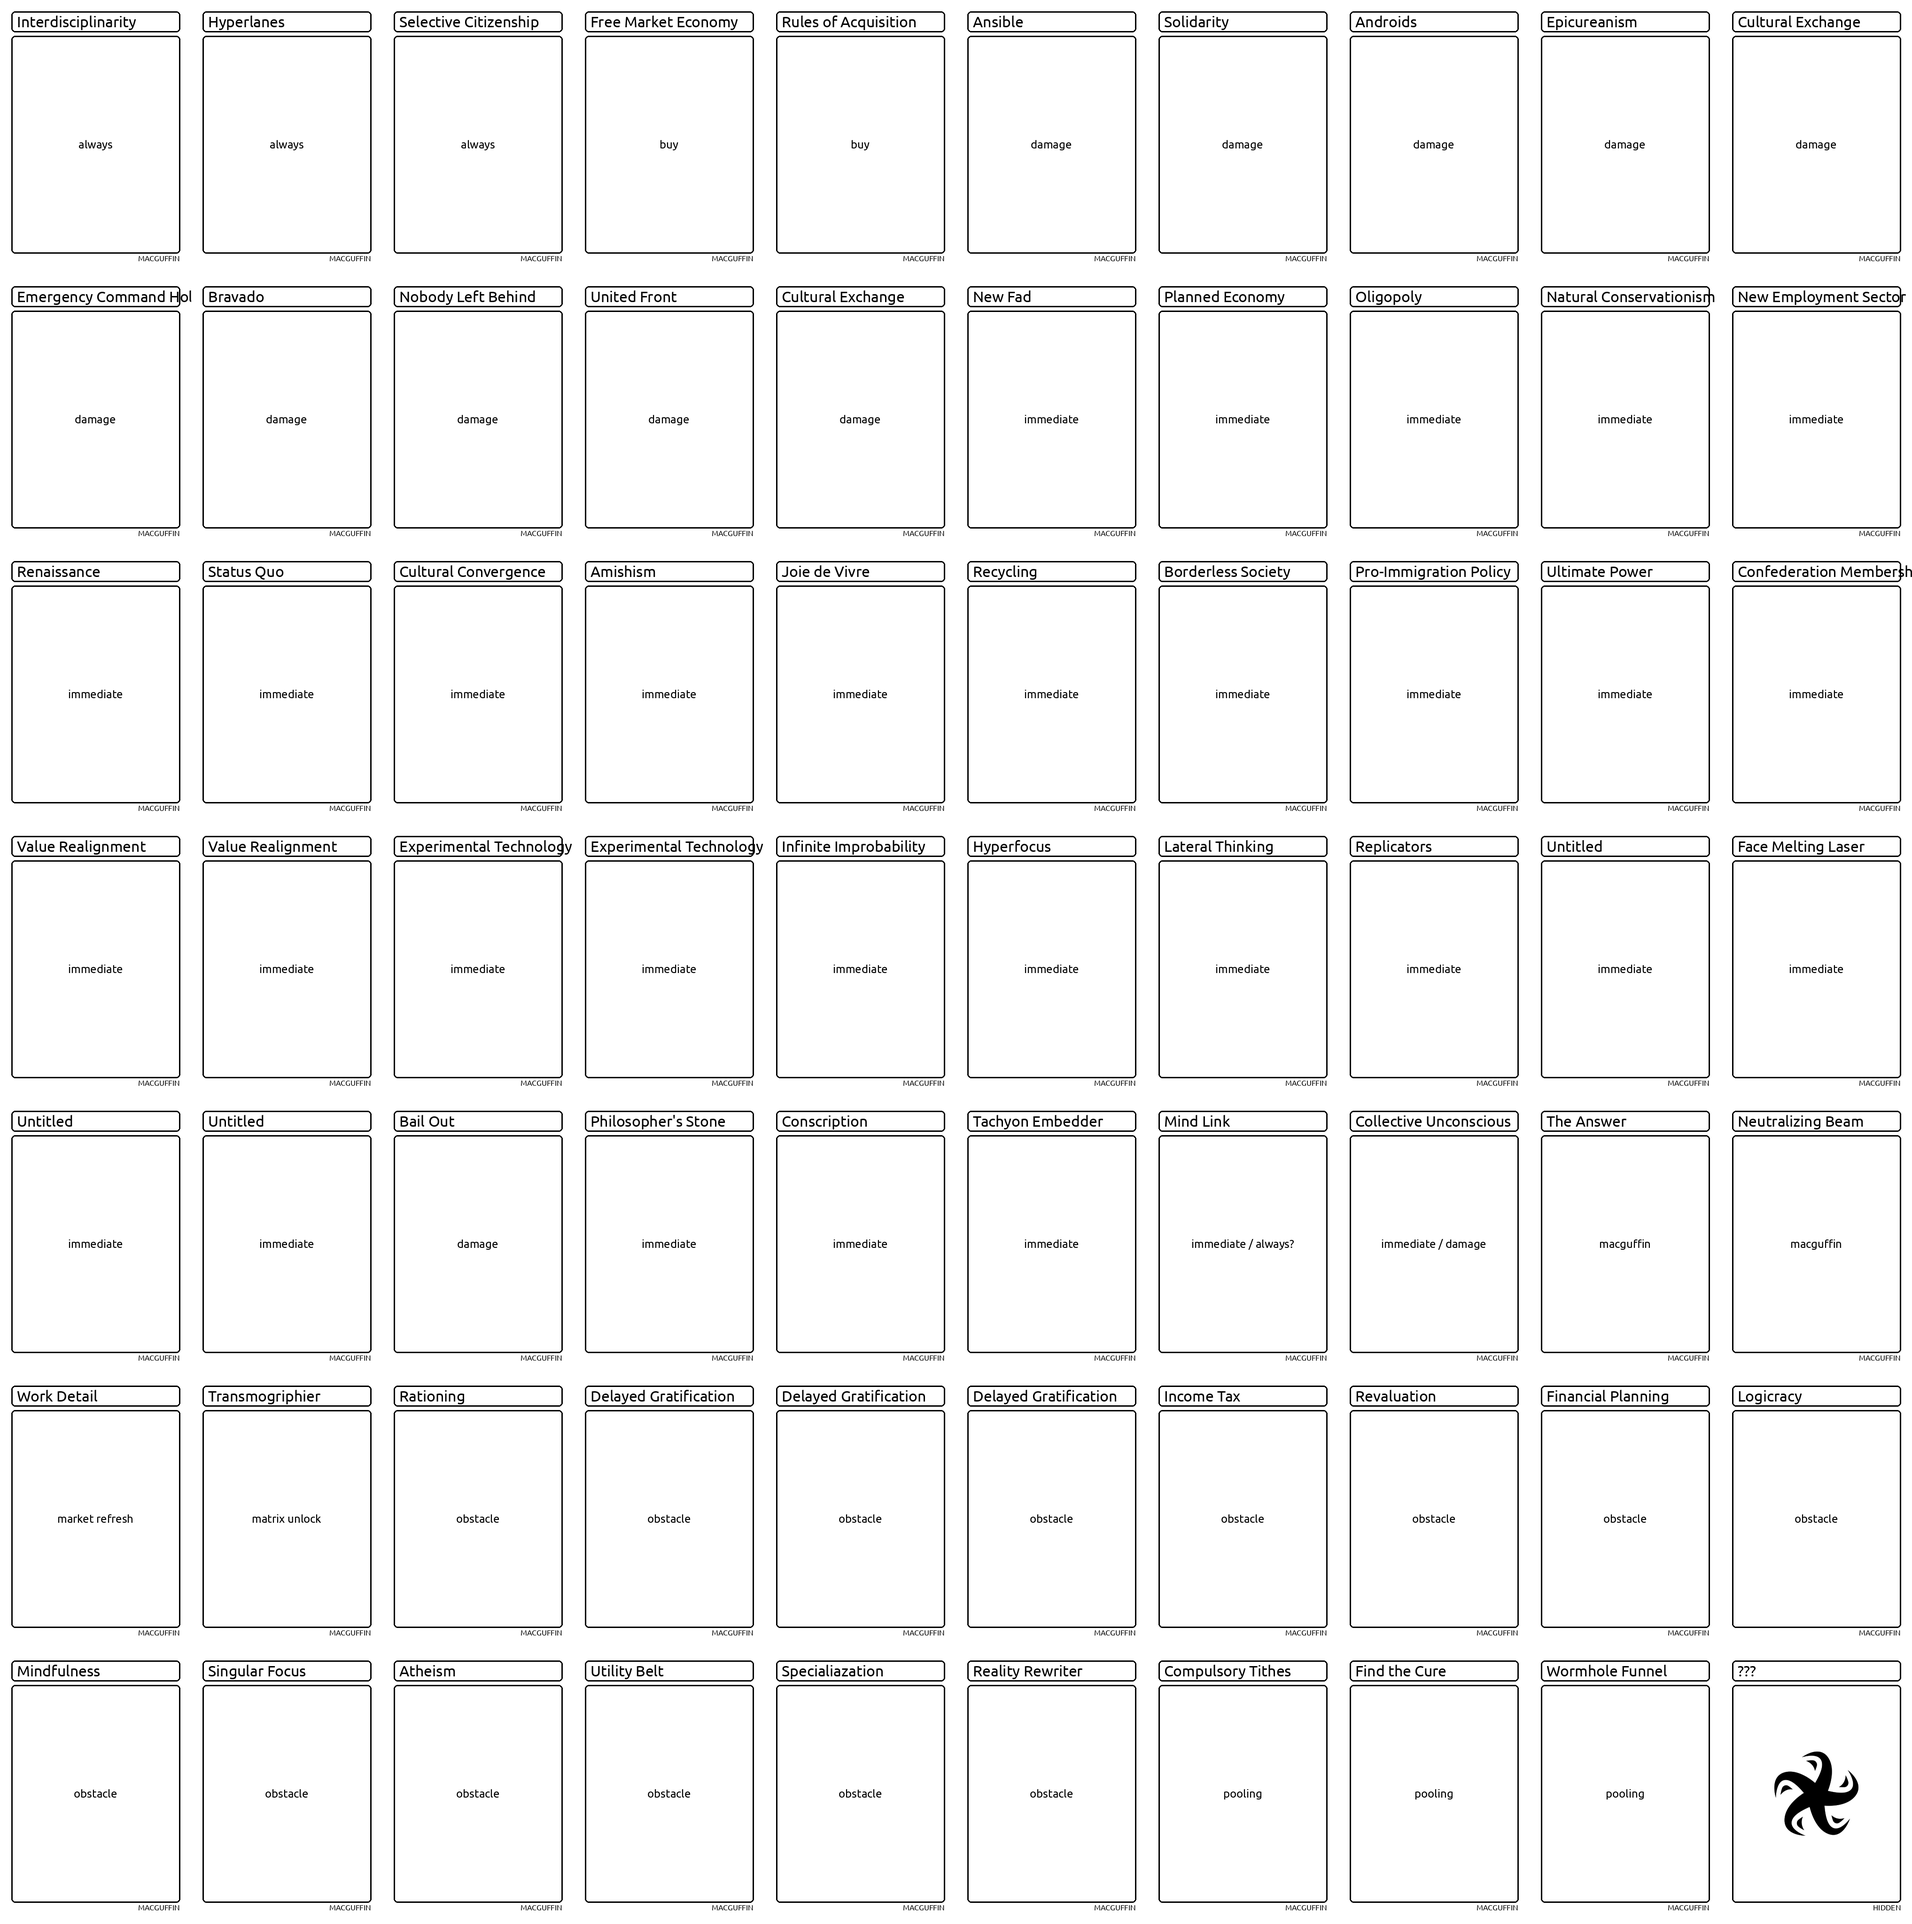
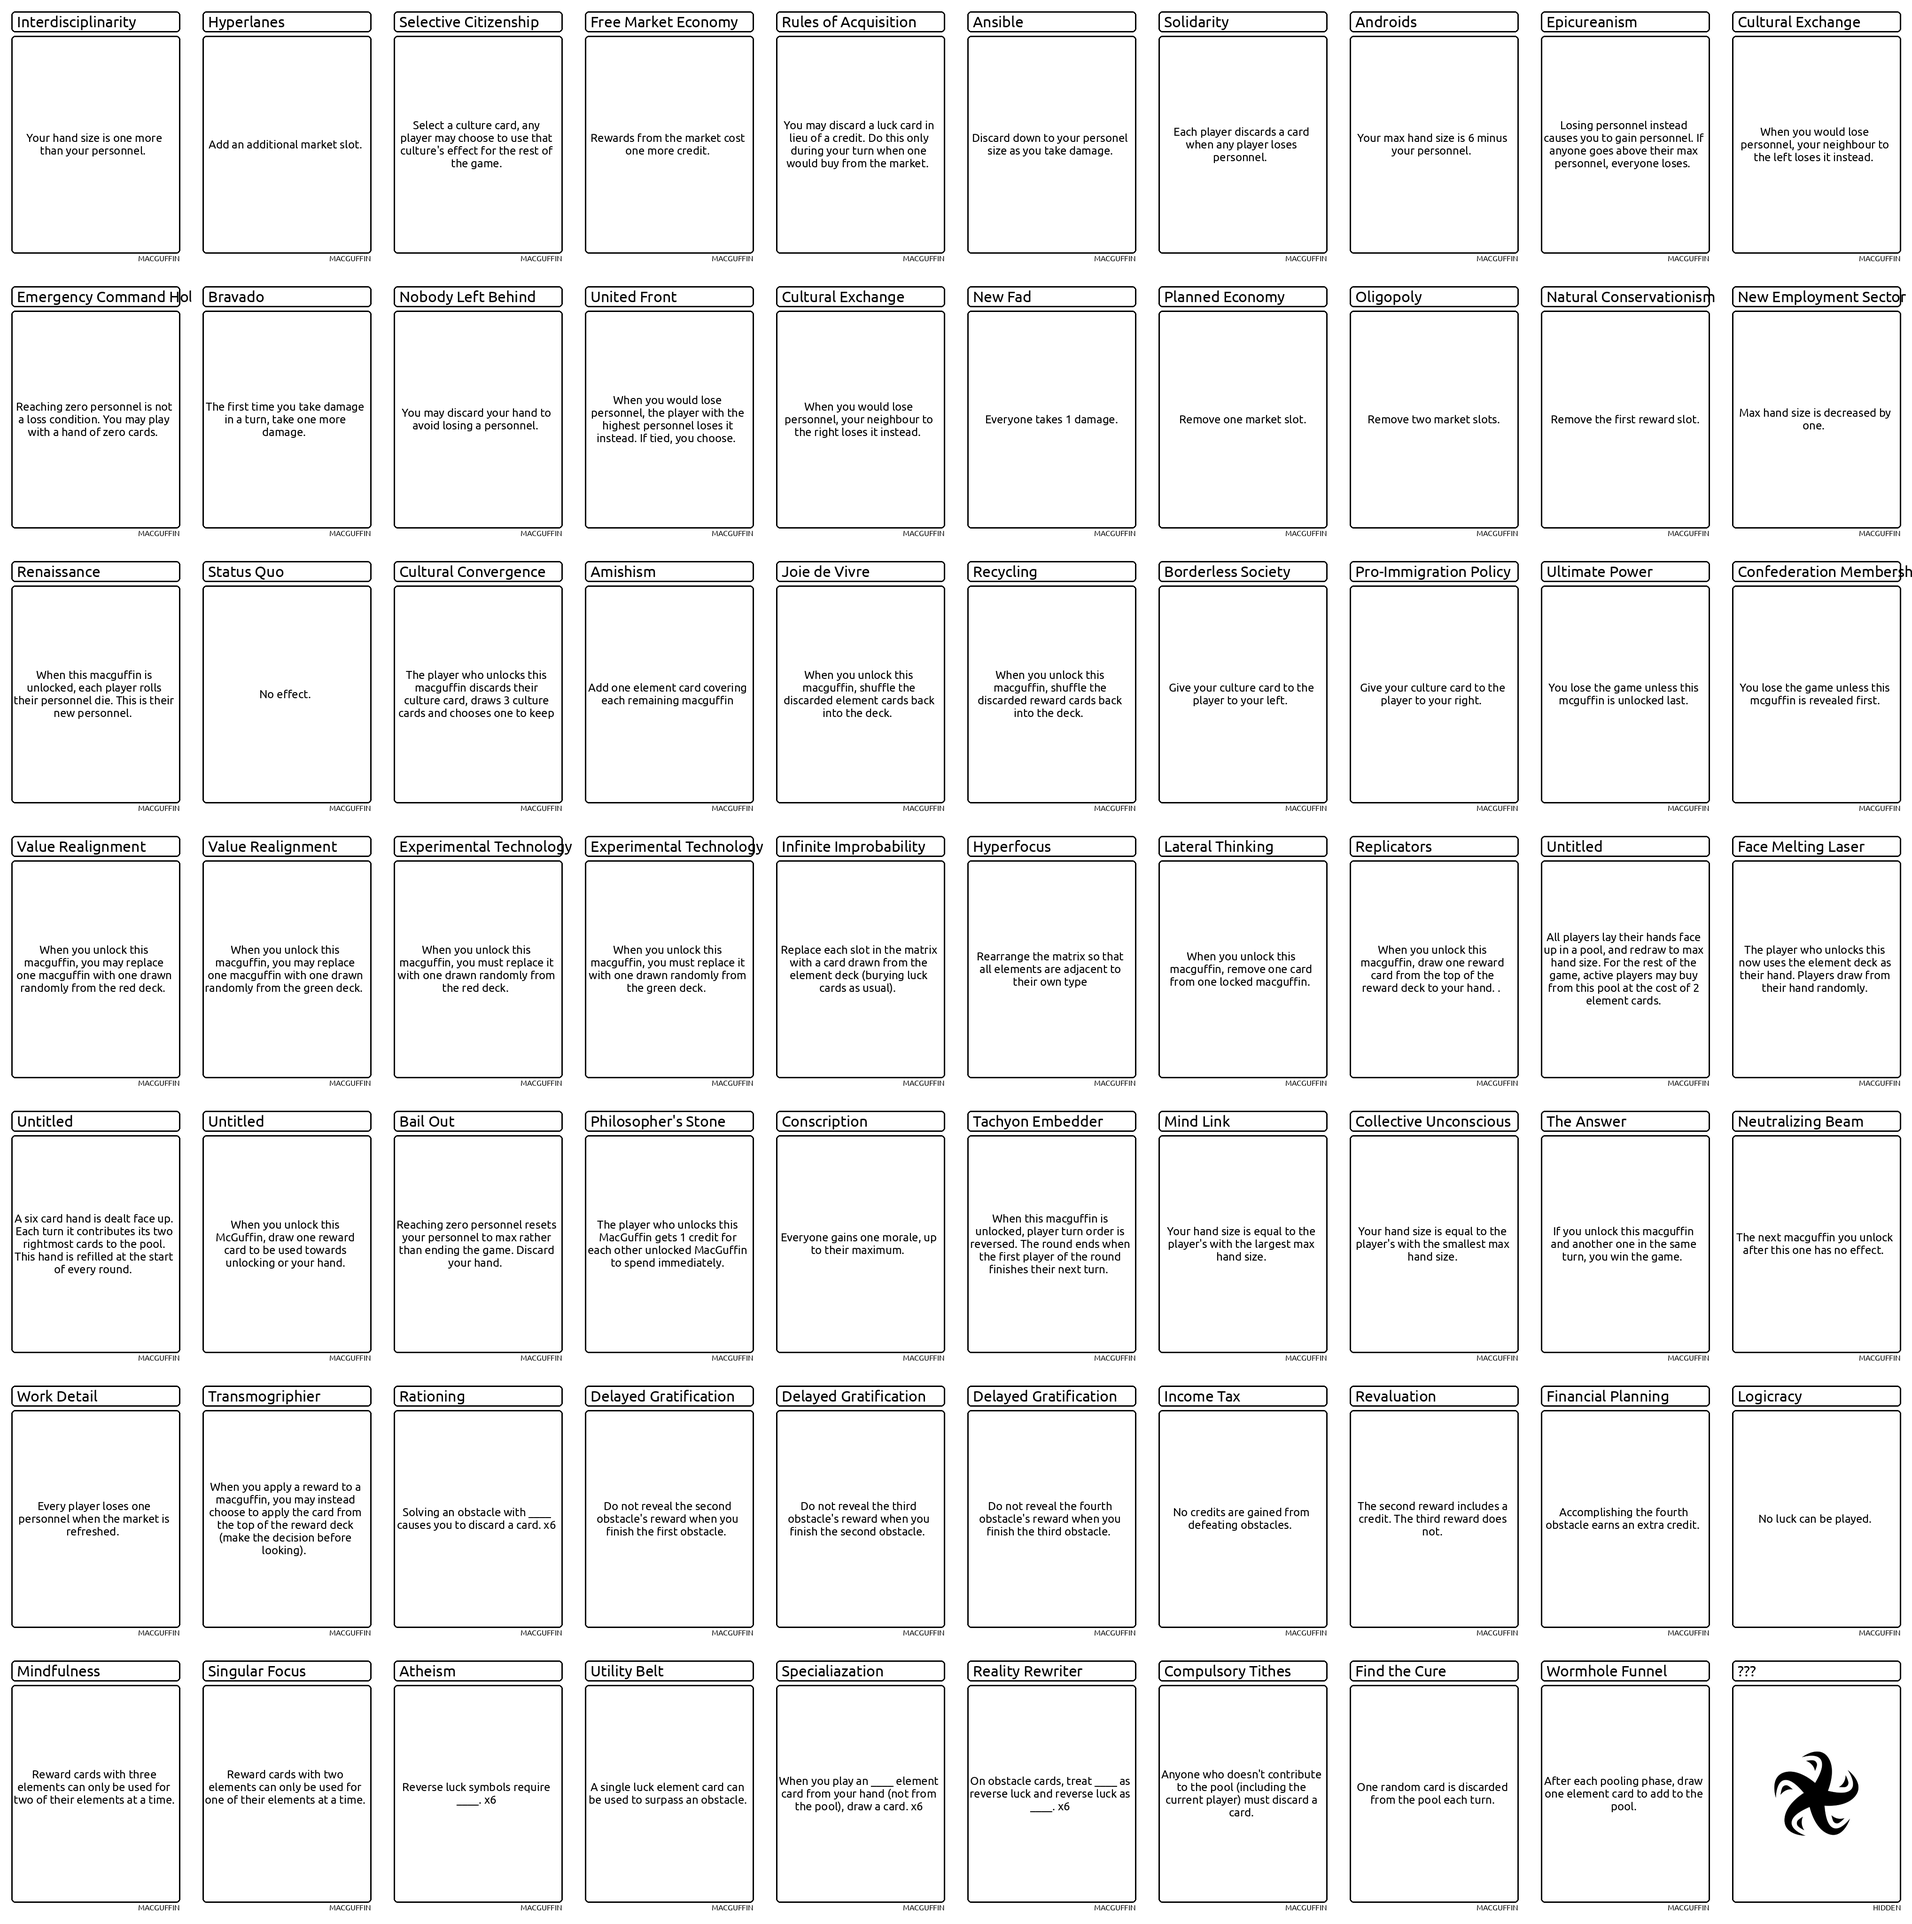
Fix MacGuffin parsing.

diff --git a/card.py b/card.py
@@ -4,7 +4,7 @@ from dataclasses import dataclass, field
 from typing import ContextManager, Dict, List, Tuple
 from pathlib import Path
 
-from util import spreadsheet
+from util import spreadsheet, spreadsheet_as_dicts
 from card_template import CardTemplate, TextOnlyCardTemplate, ImageOnlyCardTemplate
 import image_helper
 
@@ -200,29 +200,25 @@ class RoleCard(Card):
 @dataclass
 class MacguffinCard(Card):
     power_rating: int
+    trigger: str
+    before_trigger: bool
 
     @classmethod
     def load(cls, path: Path) -> List[Card]:
         cards = []
-        with spreadsheet(path) as wb:
-            for row in wb['MacGuffins'].iter_rows(min_row=2, max_col=3):
-                name = row[0].value
-                if name is None:
-                    continue
+        for row in spreadsheet_as_dicts(path, 'MacGuffins'):
+            if not row['Name']:
+                continue
 
-                power_rating = 0
-                try:
-                    power_rating = int(row[1].value or 0)
-                except ValueError:
-                    pass
+            deck_count = 1
+            power_rating = int(row['Power Rating'] or 0)
+            before_trigger = row['Before/After'] == 'before'
 
-                description = row[2].value or ''
+            cards.append(
+                MacguffinCard(row['Name'], row['Effect'], deck_count,
+                              TextOnlyCardTemplate(), power_rating,
+                              row['Trigger'], before_trigger))
 
-                deck_count = 1
-
-                cards.append(
-                    MacguffinCard(name, description, deck_count,
-                                  TextOnlyCardTemplate(), power_rating))
         return cards
 
     def get_tags(self) -> List[str]:

diff --git a/util.py b/util.py
@@ -54,13 +54,15 @@ def spreadsheet(path: Path) -> ContextManager[openpyxl.Workbook]:
         wb.close()
 
 
-def spreadsheet_as_dicts(path: Path, sheet_name: str) -> List[Dict]:
+def spreadsheet_as_dicts(path: Path, sheet_name: str) -> List[Dict[str, str]]:
     with spreadsheet(path) as wb:
         sheet = wb[sheet_name]
         rows = sheet.iter_rows()
         header = [cell.value for cell in next(rows)]
         for row in rows:
-            yield dict(zip(header, [cell.value for cell in row]))
+            yield dict(
+                itertools.zip_longest(header, [cell.value for cell in row],
+                                      fillvalue=''))
 
 
 def grouper(iterable, n, fillvalue=None):

diff --git a/deck.py b/deck.py
@@ -33,6 +33,9 @@ class Deck:
 
         decks = {}
         for row in util.spreadsheet_as_dicts(path, 'Decks'):
+            if row['Name'] != 'MacGuffins':
+                continue
+
             deck = Deck(row['Name'], row['Description'], row['Back Image'],
                         hidden, card_types[row['Card Class']])
             decks[deck.name] = deck
